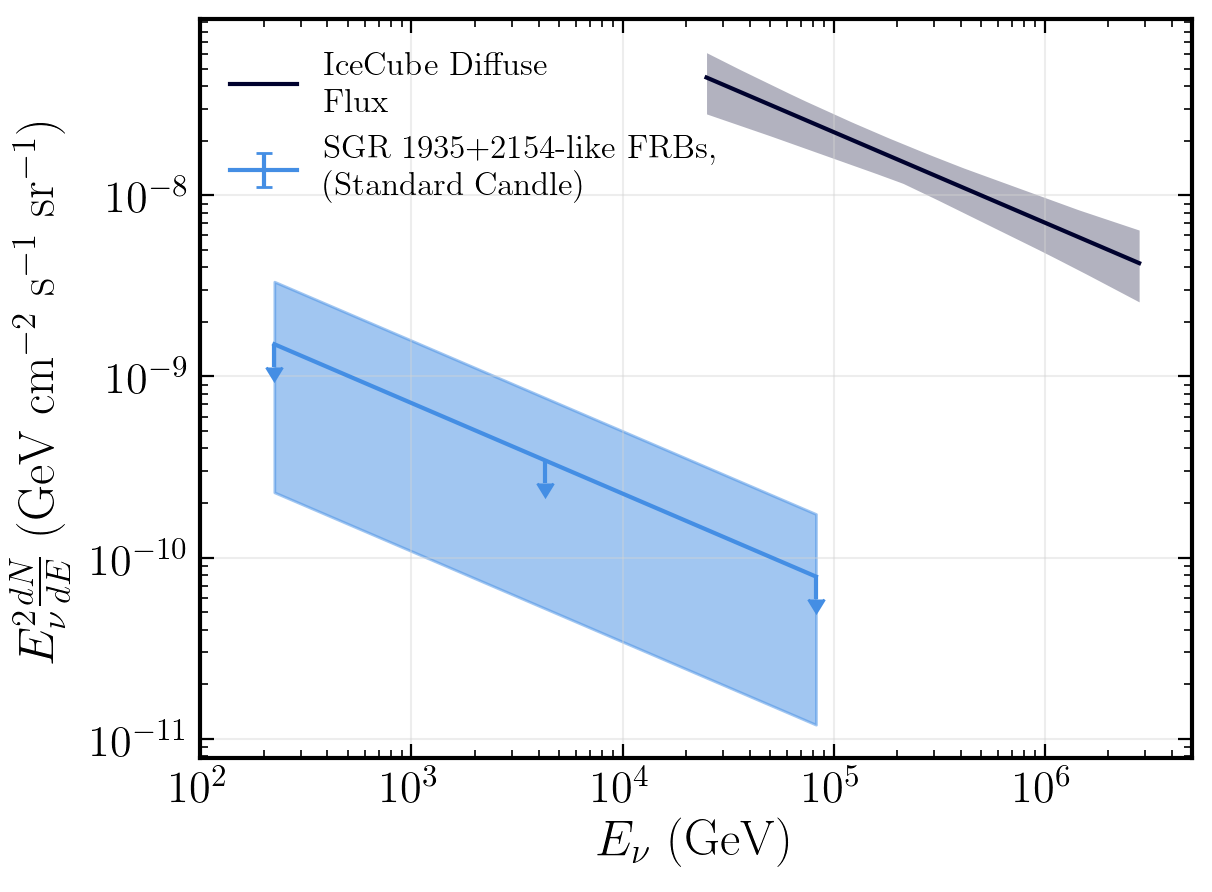
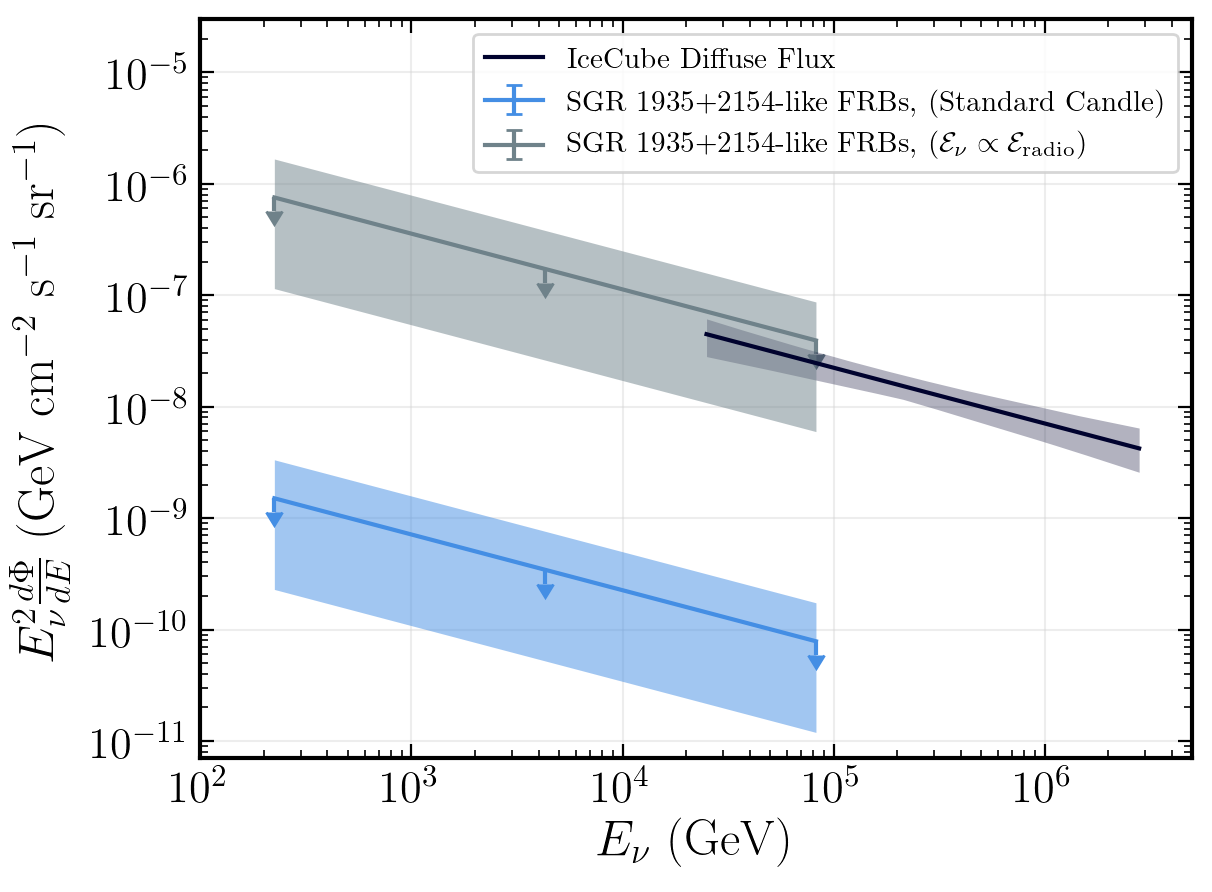
Change labels, get colors right

diff --git a/examples/FRB_population_limits.py b/examples/FRB_population_limits.py
@@ -136,11 +136,12 @@ for label, mean_flux_norm_lim, e_pdf_dict in limits[1:]:
                  label=label, color=cols[counter], zorder=2)
     plt.fill_between(ens, low_rate_fl, high_rate_fl, alpha=0.5, linewidth=0.,
                     color=cols[counter], zorder=3)
+    counter += 1
 
 plt.yscale("log")
 plt.xscale("log")
 plt.xlabel(r"$E_{\nu}$ (GeV)")
-plt.ylabel(r"$E_{\nu}^{2} \frac{dN}{dE}$ (GeV cm$^{-2}$ s$^{-1}$ sr$^{-1}$)")
+plt.ylabel(r"$E_{\nu}^{2} \frac{d\Phi}{dE}$ (GeV cm$^{-2}$ s$^{-1}$ sr$^{-1}$)")
 #ax.legend(loc='upper center', bbox_to_anchor=(0.5, 1.4),
 #          ncol=2, fancybox=True, shadow=True, fontsize=12)
 ax.legend(loc=1, ncol=1, frameon=True, fontsize=10.5)
